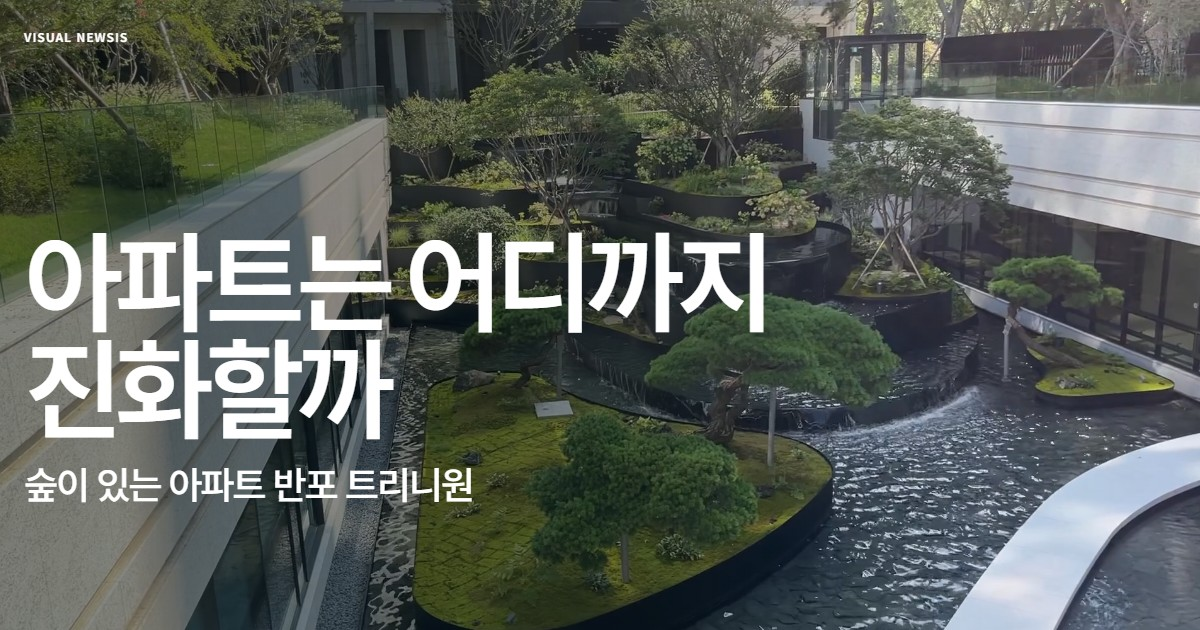
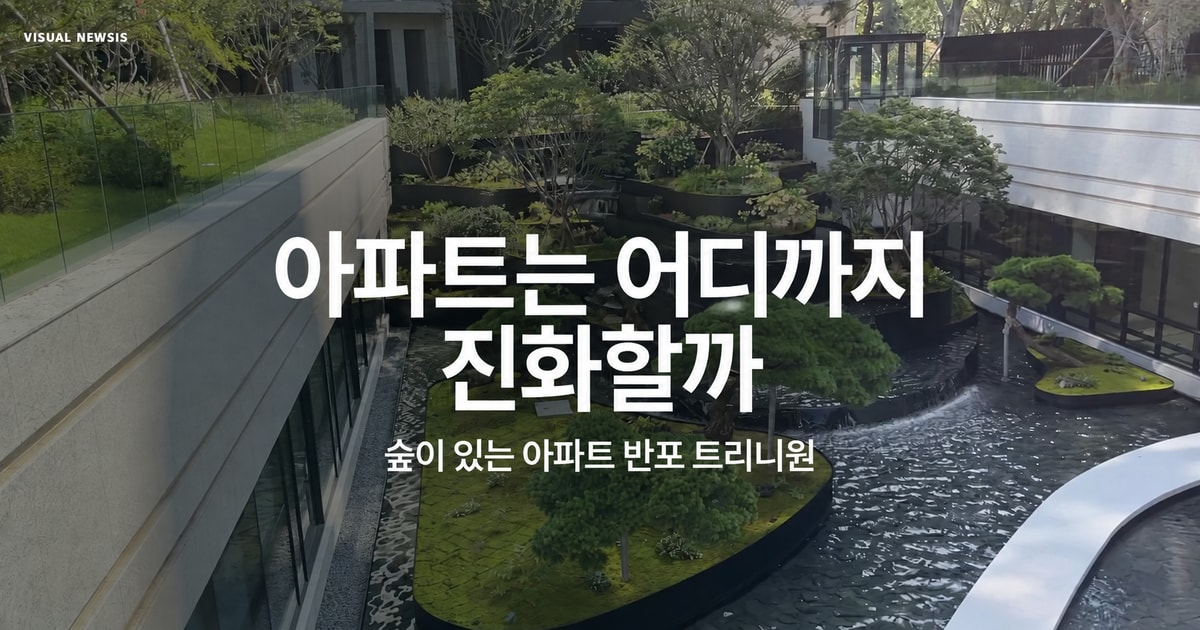
Improve mobile video autoplay and share thumbnail

diff --git a/trinione/index.html b/trinione/index.html
@@ -3868,4 +3868,59 @@ FINAL RECOVERY PATCH
     }))).observe(document.body, { childList:true, subtree:true });
   })();
 </script>
+<script>
+  /* 모바일 자동재생 보완: 음소거·인라인 속성을 실제 태그에 고정하고, 화면에 들어온 영상만 재생합니다. */
+  (() => {
+    const prepare = video => {
+      if (!video || video.dataset.mobileAutoplayReady) return;
+      video.dataset.mobileAutoplayReady = 'true';
+      video.autoplay = true;
+      video.loop = true;
+      video.muted = true;
+      video.defaultMuted = true;
+      video.playsInline = true;
+      video.setAttribute('autoplay', '');
+      video.setAttribute('muted', '');
+      video.setAttribute('playsinline', '');
+      video.setAttribute('webkit-playsinline', '');
+      video.setAttribute('preload', 'auto');
+      video.removeAttribute('controls');
+      const play = () => video.play().catch(() => {});
+      video.addEventListener('loadeddata', play, { once:true });
+      video.addEventListener('canplay', play, { once:true });
+      play();
+    };
+
+    const playVisible = video => {
+      prepare(video);
+      video.play().catch(() => {});
+    };
+
+    const observer = new IntersectionObserver(entries => entries.forEach(entry => {
+      if (entry.isIntersecting) playVisible(entry.target);
+      else entry.target.pause();
+    }), { threshold:.08, rootMargin:'160px 0px' });
+
+    const bind = root => root.querySelectorAll('video').forEach(video => {
+      prepare(video);
+      observer.observe(video);
+    });
+
+    const start = () => bind(document);
+    if (document.readyState === 'loading') document.addEventListener('DOMContentLoaded', start, { once:true });
+    else start();
+    new MutationObserver(records => records.forEach(record => record.addedNodes.forEach(node => {
+      if (node.nodeType !== 1) return;
+      if (node.matches?.('video')) { prepare(node); observer.observe(node); }
+      bind(node);
+    }))).observe(document.documentElement, { childList:true, subtree:true });
+
+    const resume = () => document.querySelectorAll('video').forEach(video => {
+      if (video.getBoundingClientRect().bottom > 0 && video.getBoundingClientRect().top < innerHeight) playVisible(video);
+    });
+    addEventListener('pageshow', resume);
+    document.addEventListener('visibilitychange', () => { if (!document.hidden) resume(); });
+    document.addEventListener('touchstart', resume, { once:true, passive:true });
+  })();
+</script>
 </html>
